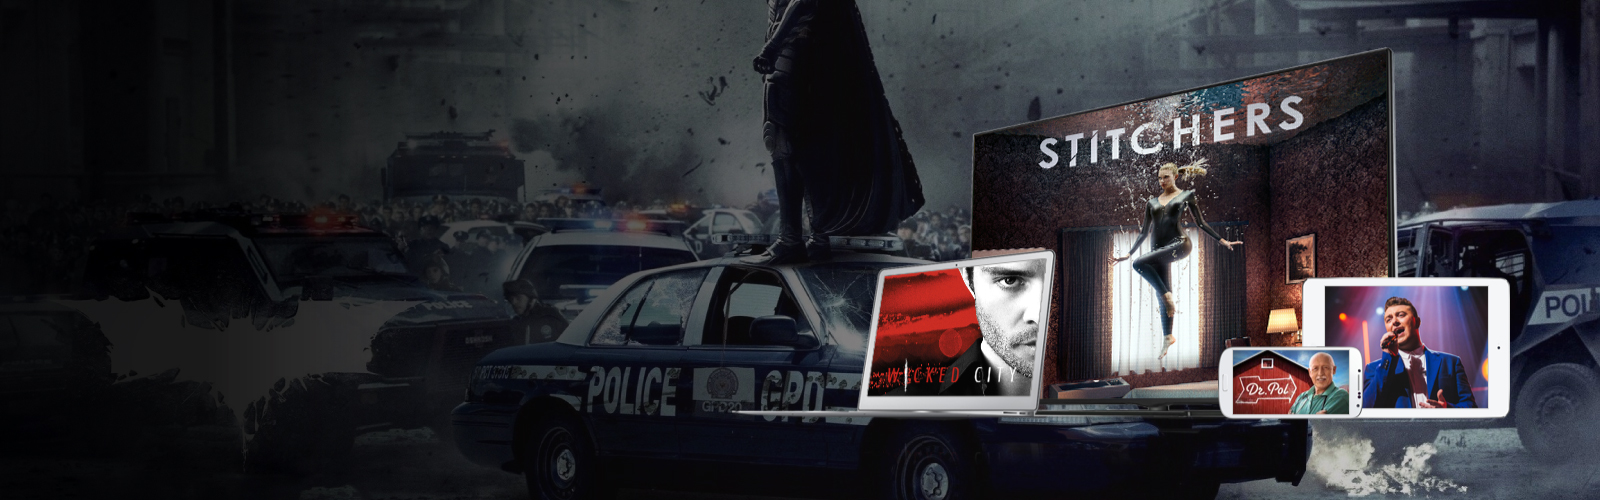
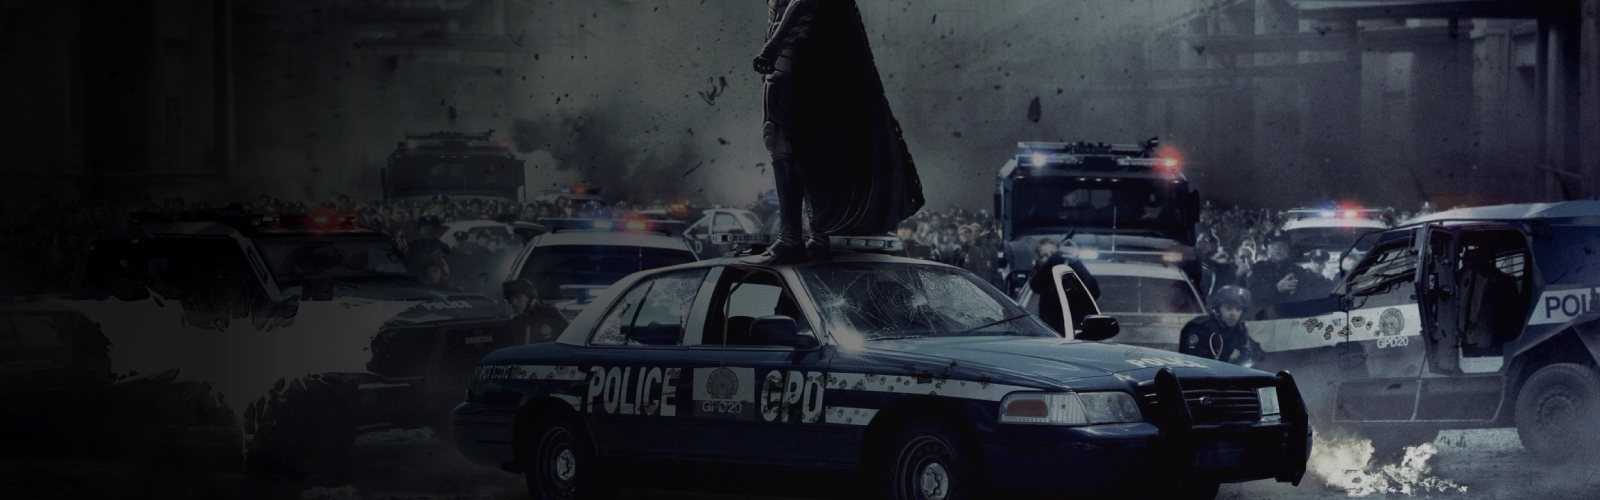
perubahan main slider - home

Changed region(s): [[0.4688, 0.09, 0.9688, 0.84]]

diff --git a/content/index.php b/content/index.php
@@ -1,11 +1,16 @@
     <!-- Content1 -->
     <div  style="background-image:url(<?php echo $base_url; ?>/img/background-groovy.jpg);background-size:cover;margin-top:50px;">
-    <div class="container primaryContent" style="background-color:rgba(255, 255, 255, 0)">
-        <h2 style="font-size:27px;line-height:35px;color:#fff;">Bring a Complete Entertainment<br/>To Your Home Now!</h2>
-        <h6 style="font-size:17px;color:#555;font-weight:400;color:#fff;">Combine high speed Internet and TV to get more fast and fun.</h6><br/>
-        <button data-toggle="modal" data-target="#signupModal" class="buttonOrange">Get Started</button>&nbsp;
-        <a href="<?php echo $base_url; ?>/?hal=features" style="background-color:rgba(255, 255, 255, 0);border:2px solid #FF3D23;color:#FF3D23;height:40px;padding:12px 25px 12px 25px;border-radius:3px;font-weight:bold;">Learn More</a>&nbsp;&nbsp;
-    </div>
+        <div class="row">
+            <div class=" col-sm-6 container primaryContent" style="background-color:rgba(255, 255, 255, 0)">
+                <h2 style="font-size:27px;line-height:35px;color:#fff;">Bring a Complete Entertainment<br/>To Your Home Now!</h2>
+                <h6 style="font-size:17px;color:#555;font-weight:400;color:#fff;">Combine high speed Internet and TV to get more fast and fun.</h6><br/>
+                <button data-toggle="modal" data-target="#signupModal" class="buttonOrange">Get Started</button>&nbsp;
+                <a href="<?php echo $base_url; ?>/?hal=features" style="background-color:rgba(255, 255, 255, 0);border:2px solid #FF3D23;color:#FF3D23;height:40px;padding:12px 25px 12px 25px;border-radius:3px;font-weight:bold;">Learn More</a>&nbsp;&nbsp;
+            </div>
+            <div class="col-sm-6 desktop-only">
+                <img src="/img/background-groovy-2.png" width="100%"/>
+            </div>
+        </div>
     </div>
     <!-- /Content1 -->
     
